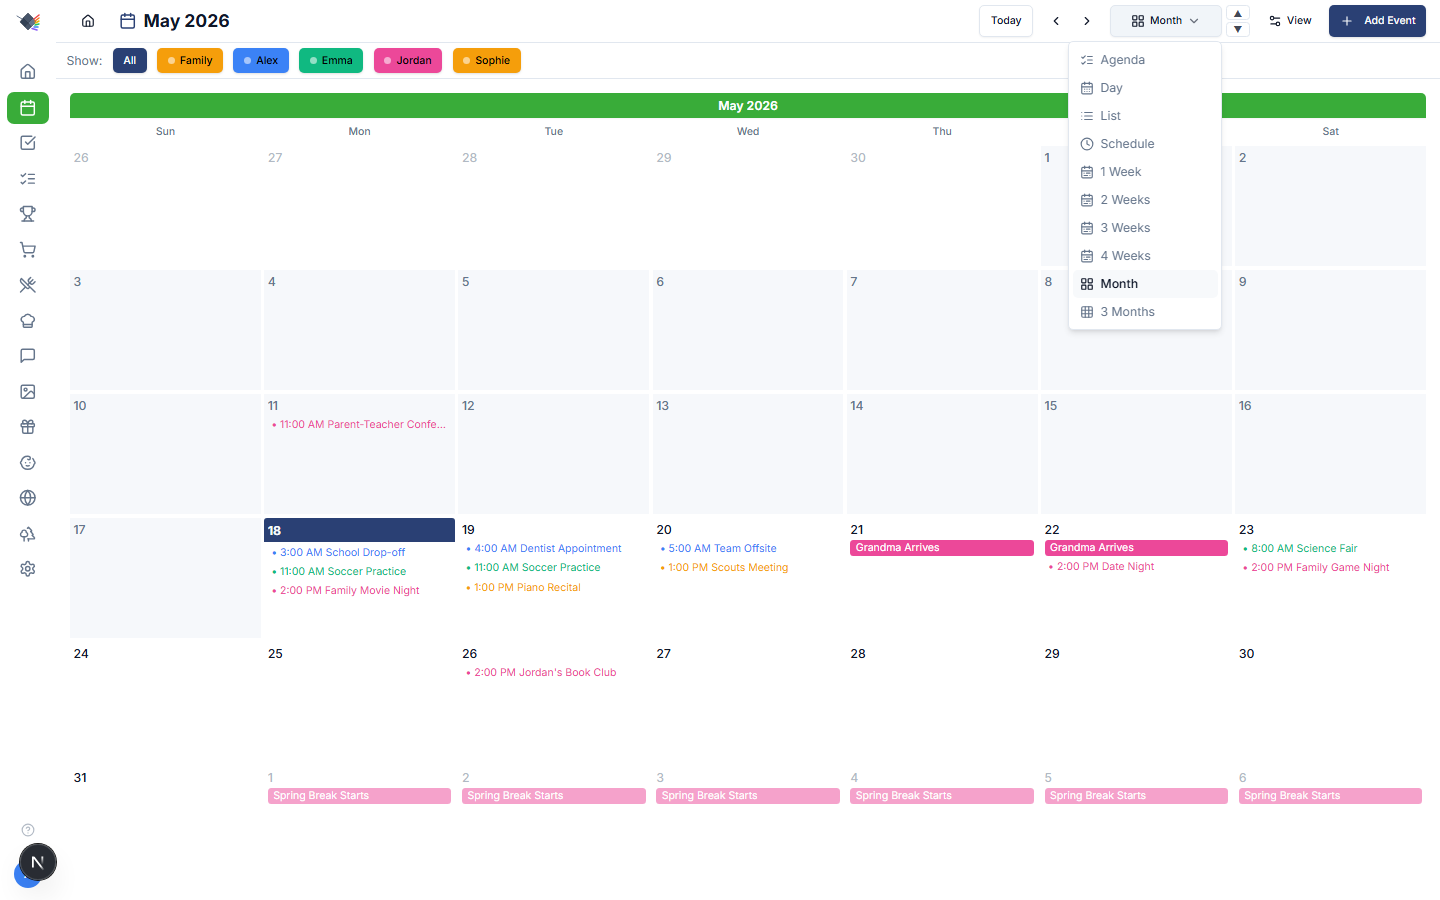
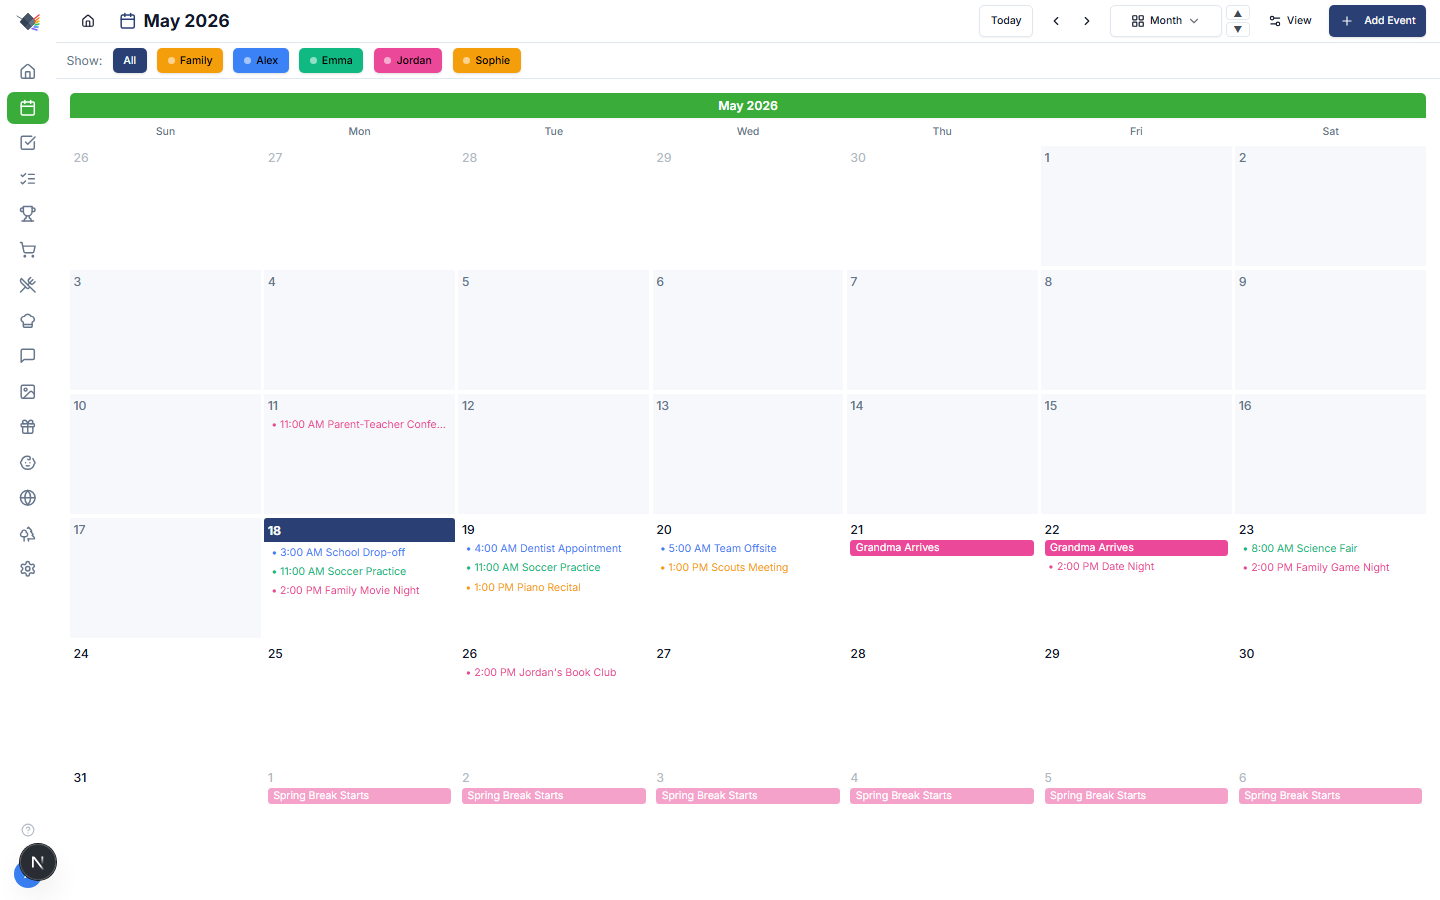
docs(screenshots): capture five distinct calendar views (month, multi-week, day, week, agenda)
The previous capture script used button-text selectors against the
calendar view picker, which is a dropdown popover. The selectors never
matched (the popover wasn't open) so every "calendar-*.png" actually
rendered the default Month view — calendar-week and calendar-agenda were
byte-identical to each other and to the underlying Month default.

Switched to pre-seeding the view via the localStorage keys the view-data
hook already reads on mount (prism-calendar-view-type / -week-count).
Same pattern moved theme pre-seeding into the same addInitScript so the
page renders directly in the requested state. Also bumped settleMs to 6s
so the events fetch + spinner clears before the screenshot.

Added a name-filter CLI arg to capture-screenshots.ts so a single
section can be re-run without re-capturing everything.

Changed region(s): [[0.7188, 0.0622, 0.875, 0.3733]]

diff --git a/scripts/capture-screenshots.ts b/scripts/capture-screenshots.ts
@@ -26,6 +26,15 @@ const OUT_DIR = path.resolve(__dirname, '..', 'docs', 'demos');
 const DESKTOP_VIEWPORT = { width: 1440, height: 900 };
 const MOBILE_VIEWPORT = { width: 390, height: 844 }; // iPhone 14
 
+type CalendarViewType =
+  | 'agenda'
+  | 'day'
+  | 'week'
+  | 'weekVertical'
+  | 'multiWeek'
+  | 'month'
+  | 'threeMonth';
+
 interface CaptureSpec {
   name: string;
   url: string;
@@ -36,6 +45,14 @@ interface CaptureSpec {
   theme?: 'light' | 'dark';
   /** Mobile viewport instead of desktop */
   mobile?: boolean;
+  /**
+   * Pre-seed the calendar view via localStorage before navigation. The view
+   * picker (ViewMenu) reads `prism-calendar-view-type` and `prism-calendar-
+   * week-count` on mount, so this is the most reliable way to land on a
+   * specific view — no need to click through the popover.
+   */
+  calendarView?: CalendarViewType;
+  calendarWeekCount?: 1 | 2 | 3 | 4;
   /** Optional pre-screenshot setup (e.g. click into a sub-view) */
   setup?: (page: Page) => Promise<void>;
 }
@@ -65,52 +82,51 @@ const SCREENSHOTS: CaptureSpec[] = [
   },
 
   // ─── Calendar ──────────────────────────────────────────────
+  // Each view is pre-seeded via localStorage rather than clicking the view
+  // picker — see CaptureSpec.calendarView above for the rationale.
   {
     name: 'calendar-month',
     url: '/calendar',
     description: 'Calendar month view',
-    settleMs: 1500,
-    setup: async (page) => {
-      // Switch to month view if not default
-      const monthBtn = page.locator('button:has-text("Month")').first();
-      if (await monthBtn.isVisible()) {
-        await monthBtn.click().catch(() => {});
-        await page.waitForTimeout(500);
-      }
-    },
+    settleMs: 6000,
+    calendarView: 'month',
+  },
+  {
+    name: 'calendar-multiweek',
+    url: '/calendar',
+    description: 'Calendar multi-week view (2 weeks)',
+    settleMs: 6000,
+    calendarView: 'multiWeek',
+    calendarWeekCount: 2,
   },
   {
     name: 'calendar-week',
     url: '/calendar',
-    description: 'Calendar week view',
-    settleMs: 1500,
-    setup: async (page) => {
-      const viewBtn = page.locator('button:has-text("1W")').first();
-      if (await viewBtn.isVisible()) {
-        await viewBtn.click().catch(() => {});
-        await page.waitForTimeout(500);
-      }
-    },
+    description: 'Calendar schedule view (single-week timeline)',
+    settleMs: 6000,
+    calendarView: 'week',
+  },
+  {
+    name: 'calendar-day',
+    url: '/calendar',
+    description: 'Calendar day view (side-by-side per-person columns)',
+    settleMs: 6000,
+    calendarView: 'day',
   },
   {
     name: 'calendar-agenda',
     url: '/calendar',
-    description: 'Calendar agenda view',
-    settleMs: 1000,
-    setup: async (page) => {
-      const viewBtn = page.locator('button:has-text("Agenda")').first();
-      if (await viewBtn.isVisible()) {
-        await viewBtn.click().catch(() => {});
-        await page.waitForTimeout(500);
-      }
-    },
+    description: 'Calendar agenda view (chronological list)',
+    settleMs: 6000,
+    calendarView: 'agenda',
   },
   {
     name: 'calendar-mobile',
     url: '/calendar',
     description: 'Mobile calendar (agenda-only)',
     mobile: true,
-    settleMs: 1000,
+    settleMs: 5000,
+    calendarView: 'agenda',
   },
 
   // ─── Shopping ──────────────────────────────────────────────
@@ -209,17 +225,6 @@ const SCREENSHOTS: CaptureSpec[] = [
   },
 ];
 
-async function setTheme(page: Page, theme: 'light' | 'dark') {
-  await page.evaluate((t) => {
-    const html = document.documentElement;
-    html.classList.remove('light', 'dark');
-    html.classList.add(t);
-    try {
-      localStorage.setItem('theme', t);
-    } catch {}
-  }, theme);
-}
-
 async function loginAsAlex(page: Page) {
   const familyResp = await page.request.get('/api/family');
   const familyJson = await familyResp.json();
@@ -284,6 +289,33 @@ async function captureOnce(browser: Browser, spec: CaptureSpec): Promise<void> {
 
   const page = await context.newPage();
 
+  // Pre-seed localStorage BEFORE first paint so the page renders directly in
+  // the requested state (theme + calendar view) without a mid-load swap.
+  // Without this, switching state after mount re-triggers widget loading
+  // states and the settle wait can capture a half-loaded view.
+  await page.addInitScript(
+    ({ theme, calendarView, calendarWeekCount }) => {
+      try {
+        if (theme) {
+          localStorage.setItem('theme', theme);
+          document.documentElement.classList.remove('light', 'dark');
+          document.documentElement.classList.add(theme);
+        }
+        if (calendarView) {
+          localStorage.setItem('prism-calendar-view-type', calendarView);
+        }
+        if (calendarWeekCount) {
+          localStorage.setItem('prism-calendar-week-count', String(calendarWeekCount));
+        }
+      } catch {}
+    },
+    {
+      theme: spec.theme ?? null,
+      calendarView: spec.calendarView ?? null,
+      calendarWeekCount: spec.calendarWeekCount ?? null,
+    },
+  );
+
   try {
     // Login first (against the base URL — sets auth cookies on the context).
     // Use 'load' rather than 'networkidle': Next.js dev mode keeps a hot-reload
@@ -293,11 +325,6 @@ async function captureOnce(browser: Browser, spec: CaptureSpec): Promise<void> {
 
     // Navigate to the target page.
     await page.goto(spec.url, { waitUntil: 'load', timeout: 60_000 });
-
-    if (spec.theme) {
-      await setTheme(page, spec.theme);
-      await page.waitForTimeout(300);
-    }
 
     if (spec.setup) {
       await spec.setup(page);
@@ -367,7 +394,20 @@ async function main() {
     fs.mkdirSync(OUT_DIR, { recursive: true });
   }
 
-  console.log(`\nCapturing ${SCREENSHOTS.length} screenshots from ${BASE_URL}`);
+  // Optional filter: `npm run screenshots:capture -- calendar` runs only specs
+  // whose name contains "calendar". Multiple substrings combine with OR.
+  const filterArgs = process.argv.slice(2);
+  const specs = filterArgs.length
+    ? SCREENSHOTS.filter((s) => filterArgs.some((f) => s.name.includes(f)))
+    : SCREENSHOTS;
+
+  if (specs.length === 0) {
+    console.error(`No screenshots match filter: ${filterArgs.join(', ')}`);
+    process.exit(1);
+  }
+
+  console.log(`\nCapturing ${specs.length} screenshots from ${BASE_URL}`);
+  if (filterArgs.length) console.log(`Filter: ${filterArgs.join(', ')}`);
   console.log(`Output: ${OUT_DIR}\n`);
 
   // Quick health check before spinning up the browser
@@ -388,7 +428,7 @@ async function main() {
   let failed = 0;
 
   try {
-    for (const spec of SCREENSHOTS) {
+    for (const spec of specs) {
       const success = await captureOne(browser, spec);
       if (success) ok++;
       else failed++;
@@ -400,7 +440,7 @@ async function main() {
     await browser.close();
   }
 
-  console.log(`\nDone. ${ok} of ${SCREENSHOTS.length} captured`);
+  console.log(`\nDone. ${ok} of ${specs.length} captured`);
   if (failed > 0) {
     console.log(`${failed} failed — re-run to retry, or capture individually.`);
     process.exit(1);

diff --git a/scripts/capture-one.ts b/scripts/capture-one.ts
@@ -1,22 +1,29 @@
 /**
  * Retry capture for a single page. Usage:
- *   npx tsx scripts/capture-one.ts <url-path> <output-name> [settle-ms]
+ *   npx tsx scripts/capture-one.ts <url-path> <output-name> [settle-ms] [theme]
  * Example:
  *   npx tsx scripts/capture-one.ts /tasks tasks 4000
+ *   npx tsx scripts/capture-one.ts / dashboard-light 25000 light
+ *
+ * Note: on Git Bash / MSYS, prefix the URL path with "//" not "/" or it
+ * gets re-interpreted as a Windows path. e.g. "//tasks" not "/tasks".
  */
 
 import { chromium } from '@playwright/test';
 import * as path from 'path';
 
 const BASE_URL = process.env.PRISM_URL || 'http://localhost:3010';
-const [, , urlPath, outputName, settleArg] = process.argv;
+const [, , urlPathRaw, outputName, settleArg, themeArg] = process.argv;
 
-if (!urlPath || !outputName) {
-  console.error('Usage: tsx scripts/capture-one.ts <url-path> <output-name> [settle-ms]');
+if (!urlPathRaw || !outputName) {
+  console.error('Usage: tsx scripts/capture-one.ts <url-path> <output-name> [settle-ms] [theme]');
   process.exit(1);
 }
 
+// Strip the MSYS-escape leading slash so Playwright sees "/tasks" not "//tasks".
+const urlPath = urlPathRaw.replace(/^\/{2,}/, '/');
 const settleMs = settleArg ? Number(settleArg) : 5000;
+const theme = themeArg === 'dark' || themeArg === 'light' ? themeArg : undefined;
 const OUT_DIR = path.resolve(__dirname, '..', 'docs', 'demos');
 
 async function loginAsAlex(page: any) {
@@ -36,8 +43,24 @@ async function loginAsAlex(page: any) {
     baseURL: BASE_URL,
     viewport: { width: 1440, height: 900 },
     reducedMotion: 'reduce',
+    colorScheme: theme === 'dark' ? 'dark' : 'light',
   });
   const page = await context.newPage();
+
+  // Pre-seed theme localStorage BEFORE first paint so the dashboard renders
+  // in the chosen theme without a mid-load class swap (which can re-trigger
+  // widget loading states and confuse the settle wait).
+  if (theme) {
+    await page.addInitScript((t: string) => {
+      try {
+        localStorage.setItem('theme', t);
+      } catch {}
+      // Set the class on <html> as early as possible so styles apply pre-mount.
+      document.documentElement.classList.remove('light', 'dark');
+      document.documentElement.classList.add(t);
+    }, theme);
+  }
+
   await page.goto('/', { waitUntil: 'load', timeout: 60_000 });
   await loginAsAlex(page);
   await page.goto(urlPath, { waitUntil: 'load', timeout: 60_000 });

diff --git a/docs/screenshots.md b/docs/screenshots.md
@@ -33,11 +33,19 @@ A visual tour of every page in Prism. Captured against a fresh seed (the synthet
 
     ![Calendar month view](demos/calendar-month.png)
 
--   **Week view**
+-   **Multi-week view (2 weeks)**
 
-    ![Calendar week view](demos/calendar-week.png)
+    ![Calendar multi-week view](demos/calendar-multiweek.png)
 
--   **Agenda view**
+-   **Schedule view (single week, hourly)**
+
+    ![Calendar schedule view](demos/calendar-week.png)
+
+-   **Day view (side-by-side per person)**
+
+    ![Calendar day view](demos/calendar-day.png)
+
+-   **Agenda view (chronological list)**
 
     ![Calendar agenda view](demos/calendar-agenda.png)
 
